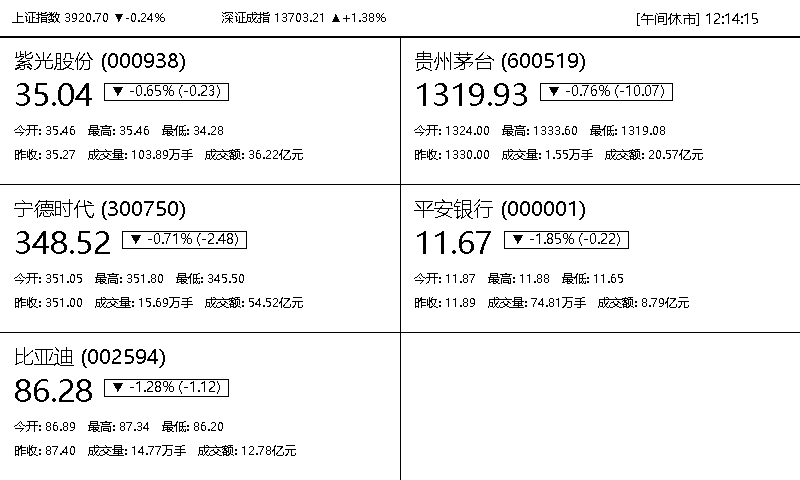
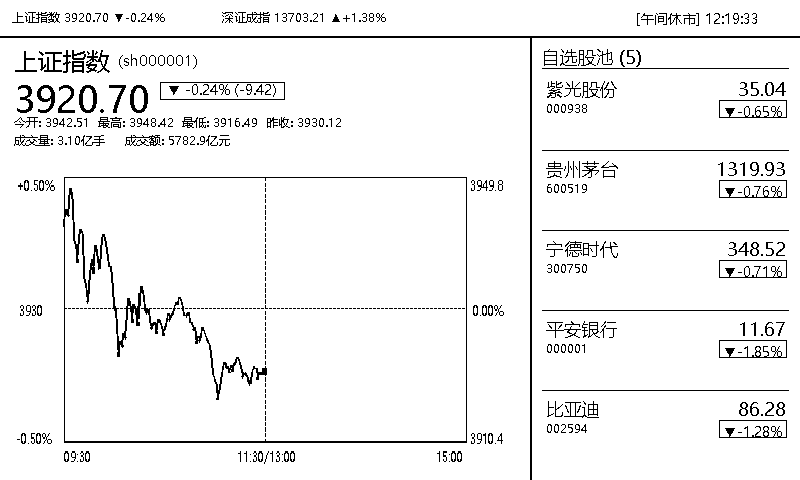
Add rotation configuration and update EPDController for image rotation handling

diff --git a/core/epd_controller.py b/core/epd_controller.py
@@ -17,6 +17,7 @@ class EPDController:
         self.width = self.config.get("device_width", 800)
         self.height = self.config.get("device_height", 480)
         self.max_partial = self.config.get("max_partial_refreshes_before_full", 20)
+        self.rotation = self.config.get("rotation", 180)
         self.partial_count = 0
         self.is_hardware_available = False
         self.epd = None
@@ -24,6 +25,16 @@ class EPDController:
         self.is_sleeping = False
 
         self._init_driver()
+
+    def _apply_rotation(self, image: Image.Image) -> Image.Image:
+        """根据硬件安装方向旋转画面（默认 180 度修正倒装）"""
+        if self.rotation == 180:
+            return image.rotate(180)
+        elif self.rotation == 90:
+            return image.rotate(90, expand=True)
+        elif self.rotation == 270:
+            return image.rotate(270, expand=True)
+        return image
 
     def _init_driver(self):
         """尝试导入微雪驱动，若在非树莓派环境则无缝降级为虚拟屏幕模式"""
@@ -49,18 +60,20 @@ class EPDController:
         self.last_image = image
         self._save_preview(image)
 
+        hw_image = self._apply_rotation(image)
+
         if self.is_hardware_available and self.epd:
             try:
-                logger.info("Executing EPD Full Refresh (Clearing ghosting)...")
+                logger.info(f"Executing EPD Full Refresh (Clearing ghosting, Rotation: {self.rotation}°)...")
                 self.epd.init()
                 self.epd.Clear()
-                self.epd.display(self.epd.getbuffer(image))
+                self.epd.display(self.epd.getbuffer(hw_image))
                 self.partial_count = 0
                 self.is_sleeping = False
             except Exception as e:
                 logger.error(f"Hardware display_full error: {e}")
         else:
-            logger.info("[Mock EPD] Executed Full Refresh.")
+            logger.info(f"[Mock EPD] Executed Full Refresh (Rotation: {self.rotation}°).")
             self.partial_count = 0
 
     def display_partial(self, image: Image.Image):
@@ -77,22 +90,24 @@ class EPDController:
             self.display_full(image)
             return
 
+        hw_image = self._apply_rotation(image)
+
         if self.is_hardware_available and self.epd:
             try:
                 # 首次或休眠唤醒后需进入局部模式
                 if self.partial_count == 0:
                     self.epd.init_part()
 
-                buf = self.epd.getbuffer(image)
+                buf = self.epd.getbuffer(hw_image)
                 self.epd.display_Partial(buf, 0, 0, self.width, self.height)
                 self.partial_count += 1
                 self.is_sleeping = False
-                logger.info(f"EPD Partial Refresh executed (Count: {self.partial_count}/{self.max_partial})")
+                logger.info(f"EPD Partial Refresh executed (Count: {self.partial_count}/{self.max_partial}, Rotation: {self.rotation}°)")
             except Exception as e:
                 logger.error(f"Hardware display_partial error: {e}")
         else:
             self.partial_count += 1
-            logger.info(f"[Mock EPD] Partial Refresh executed (Count: {self.partial_count}/{self.max_partial})")
+            logger.info(f"[Mock EPD] Partial Refresh executed (Count: {self.partial_count}/{self.max_partial}, Rotation: {self.rotation}°)")
 
     def clear(self):
         """全屏清屏"""

diff --git a/app.py b/app.py
@@ -243,18 +243,21 @@ with tab_display:
         rotate_cycles = st.slider("主力股票轮播周期 (每 N 次刷新切换下一支)", min_value=1, max_value=10, value=disp.get("rotate_interval_cycles", 3))
     with col_d2:
         show_indices = st.toggle("顶部显示大盘指数栏 (上证/深证/创业板)", value=disp.get("show_indices", True))
-        contrast_boost = st.slider("折线图二值化对比度增强", min_value=1.0, max_value=2.5, value=float(disp.get("chart_contrast_boost", 1.4)), step=0.1)
+        rot_choices = {180: "180° (上下颠倒修正 - 当前默认)", 0: "0° (标准原向)", 90: "90° (顺时针90度)", 270: "270° (逆时针90度)"}
+        current_rot = config.get("system", {}).get("rotation", 180)
+        selected_rot = st.selectbox("墨水屏物理安装旋转方向", options=list(rot_choices.keys()), format_func=lambda k: rot_choices[k], index=list(rot_choices.keys()).index(current_rot) if current_rot in rot_choices else 0)
 
     if st.button("💾 保存显示配置并立即应用", type="primary"):
         disp["layout_mode"] = selected_layout
         disp["auto_rotate_focus"] = auto_rotate
         disp["rotate_interval_cycles"] = rotate_cycles
         disp["show_indices"] = show_indices
-        disp["chart_contrast_boost"] = contrast_boost
         config["display"] = disp
+        config.setdefault("system", {})["rotation"] = selected_rot
         scheduler.save_config(config)
-        scheduler.refresh_once()
-        st.success("显示配置已更新，并已重新渲染墨水屏！")
+        scheduler.epd.rotation = selected_rot
+        scheduler.refresh_once(force_full_refresh=True)
+        st.success("显示与旋转配置已更新，并已向墨水屏推送新画面！")
         st.rerun()
 
 # ==================== Tab 4: 交易时钟与调度 ====================
